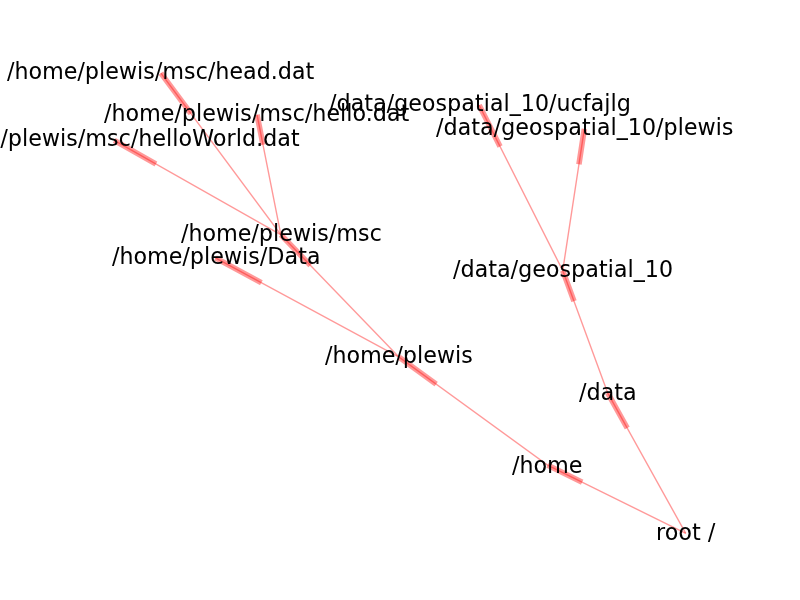
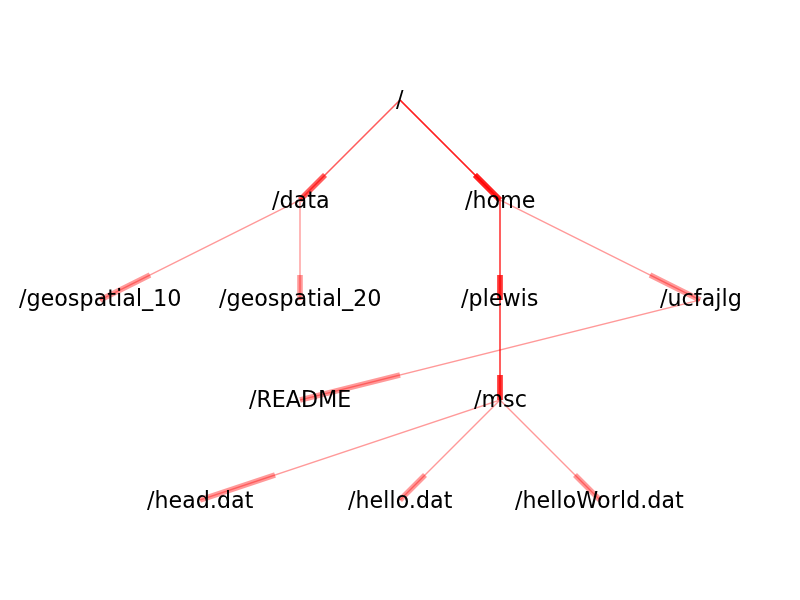
sorted diagram

diff --git a/diagramSystem1.py b/diagramSystem1.py
@@ -1,25 +1,48 @@
 import networkx as nx
 import pylab as plt
+import numpy as np
+
+# this is far from perfect, but does a reasonable job
 
 plt.clf()
 G=nx.MultiDiGraph()
-H=nx.Graph(G)
-G.add_edge('root /','/home')
-G.add_edge('root /','/data')
-G.add_edge('/data','/data/geospatial_10')
-G.add_edge('/data/geospatial_10','/data/geospatial_10/plewis')
-G.add_edge('/data/geospatial_10','/data/geospatial_10/ucfajlg')
-G.add_edge('/home','/home/plewis')
-G.add_edge('/home/plewis','/home/plewis/Data')
-G.add_edge('/home/plewis','/home/plewis/msc')
-G.add_edge('/home/plewis/msc','/home/plewis/msc/hello.dat')
-G.add_edge('/home/plewis/msc','/home/plewis/msc/helloWorld.dat')
-G.add_edge('/home/plewis/msc','/home/plewis/msc/head.dat')
+
+names = np.array(['/data/geospatial_10','/data/geospatial_20','/home/ucfajlg/README',\
+                  '/home/plewis/msc/helloWorld.dat','/home/plewis/msc/hello.dat',\
+                  '/home/plewis/msc/head.dat'])
+all = {}
+for nn in names:
+  thisN = nn.split('/')
+  for i in xrange(len(thisN)):
+    try:
+      all[i].append(thisN[i])
+    except:
+      all[i] = [thisN[i]] 
+
+xpos = {}
+ypos = {}
+for k in all.keys():
+  all[k] = np.unique(all[k])
+  xpos[k] = np.arange(len(all[k]))*200 - (len(all[k])-1)*200/2
+  ypos[k] = k * -200
 
 
-pos=nx.spring_layout(G,iterations=2000)
-#pos=nx.graphviz_layout(G)
-#nx.draw_networkx_labels(G,pos,fontsize=14)
+for nn in names:
+  thisN = ['/' + i for i in nn.split('/')]
+  for i in xrange(1,len(thisN)):
+    G.add_edge(thisN[i-1],thisN[i])
+
+pos = {}
+for nn in names:
+  thisN = ['/' + i for i in nn.split('/')]
+  for level in xrange(len(thisN)):
+    thisAll = all[level]
+    ww = np.where(thisAll == thisN[level][1:])[0]
+    thisX = xpos[level][ww][0]
+    thisY = ypos[level]
+    pos[thisN[level]] = np.array([thisX,thisY])
+    G.add_node(thisN[level],pos=pos[thisN[level]])
+
 nx.draw(G,pos,node_size=0,alpha=0.4,edge_color='r',font_size=16)
 plt.savefig("diagramSystem1.png")
 plt.show()
